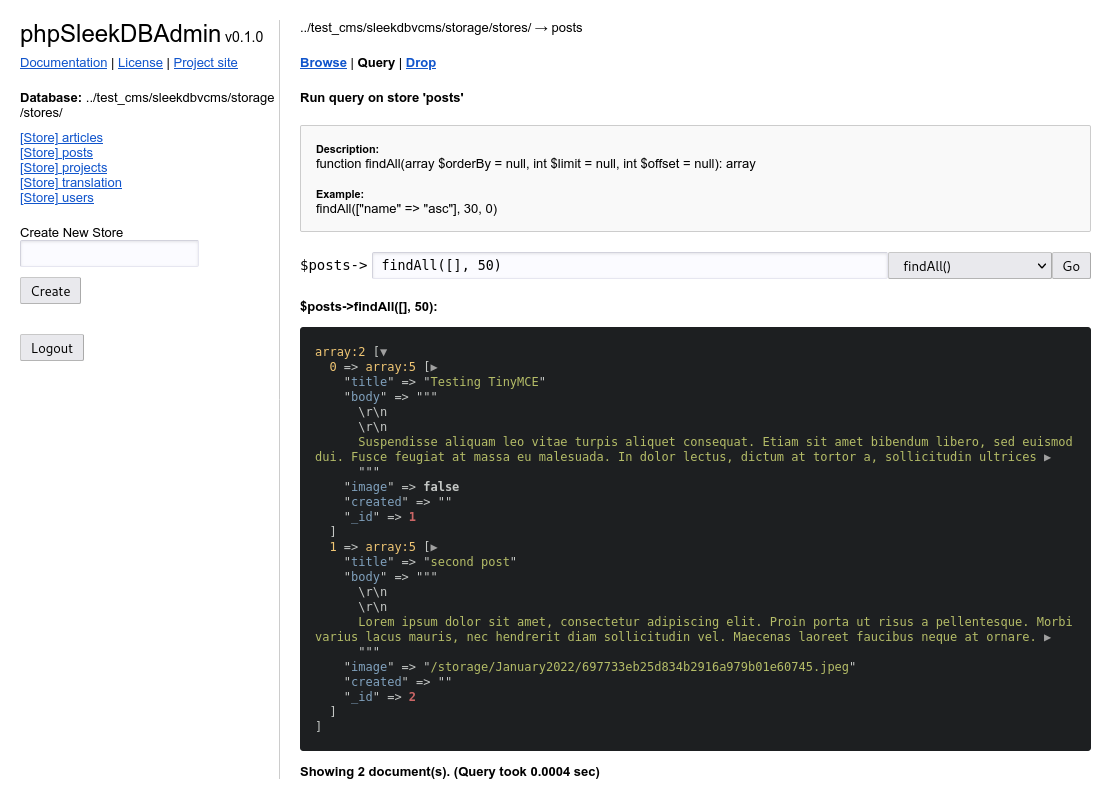
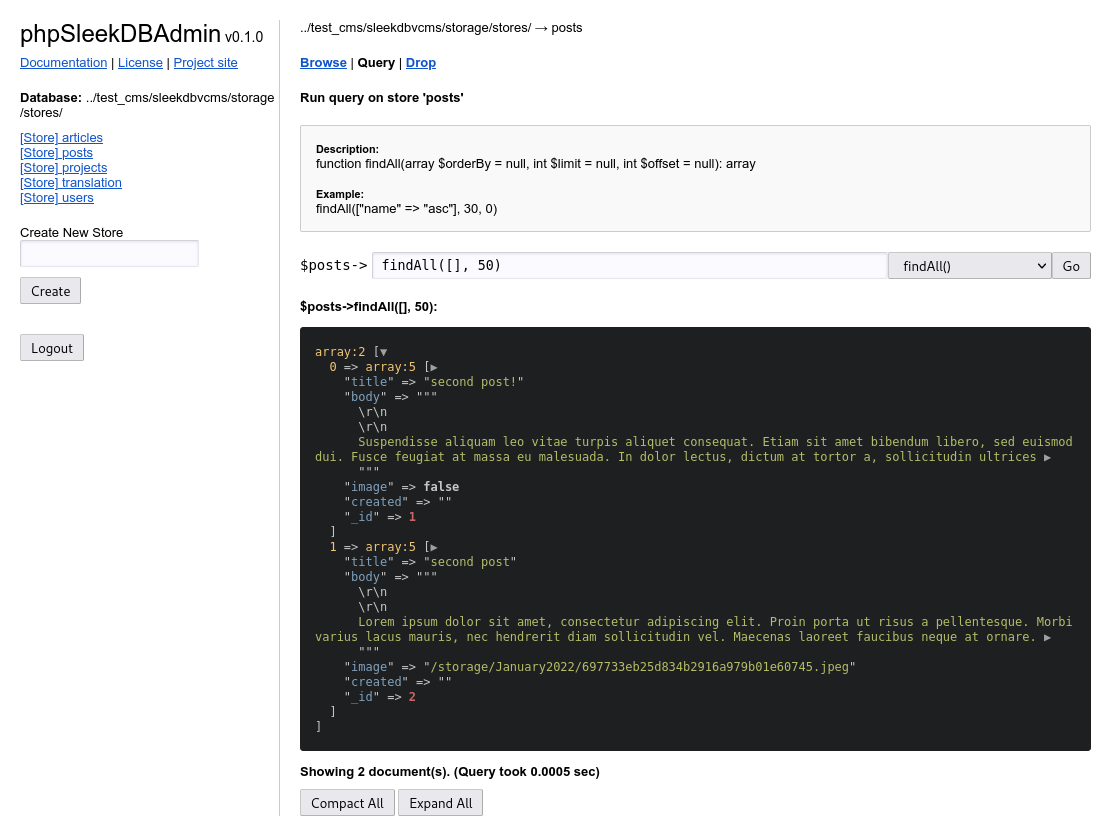
Add Compact All and Expand All buttons in view_query. Update screenshot

diff --git a/phpsleekdbadmin.php b/phpsleekdbadmin.php
@@ -434,15 +434,27 @@ function render_view_query() {
       <pre style="padding-left: 10px; background-color: #1d1f21; border-radius: 3px;"><!--
         --><?php dump($data); ?><!--
         --><script>
-          // Expand all by default
-          var compacted = document.querySelectorAll('.sf-dump-compact');
-          for (var i = 0; i < compacted.length; i++) {
-            compacted[i].className = 'sf-dump-expanded';
-          }
+          'use strict';
+          $('.sf-dump-compact').removeClass('sf-dump-compact').addClass('sf-dump-expanded');
         </script><!--
       --></pre>
 
       <p><b>Showing <?php echo $count; ?> document(s). (Query took <?php echo $queryTimer; ?> sec)</b></p>
+
+      <div class="seperator"></div>
+
+      <p><button data-compact>Compact All</button> <button data-expand>Expand All</button></p>
+      <script>
+        'use strict';
+        $('[data-compact]').on('click', function() {
+          $('.sf-dump-expanded:not(:first)').removeClass('sf-dump-expanded').addClass('sf-dump-compact');
+          $('.sf-dump-expanded:not(:first)').find('span').text('▶');
+        });
+        $('[data-expand]').on('click', function() {
+          $('.sf-dump-compact').removeClass('sf-dump-compact').addClass('sf-dump-expanded');
+          $('.sf-dump-compact').find('span').text('▼');
+        });
+      </script>
 
       <script>
         'use strict';
